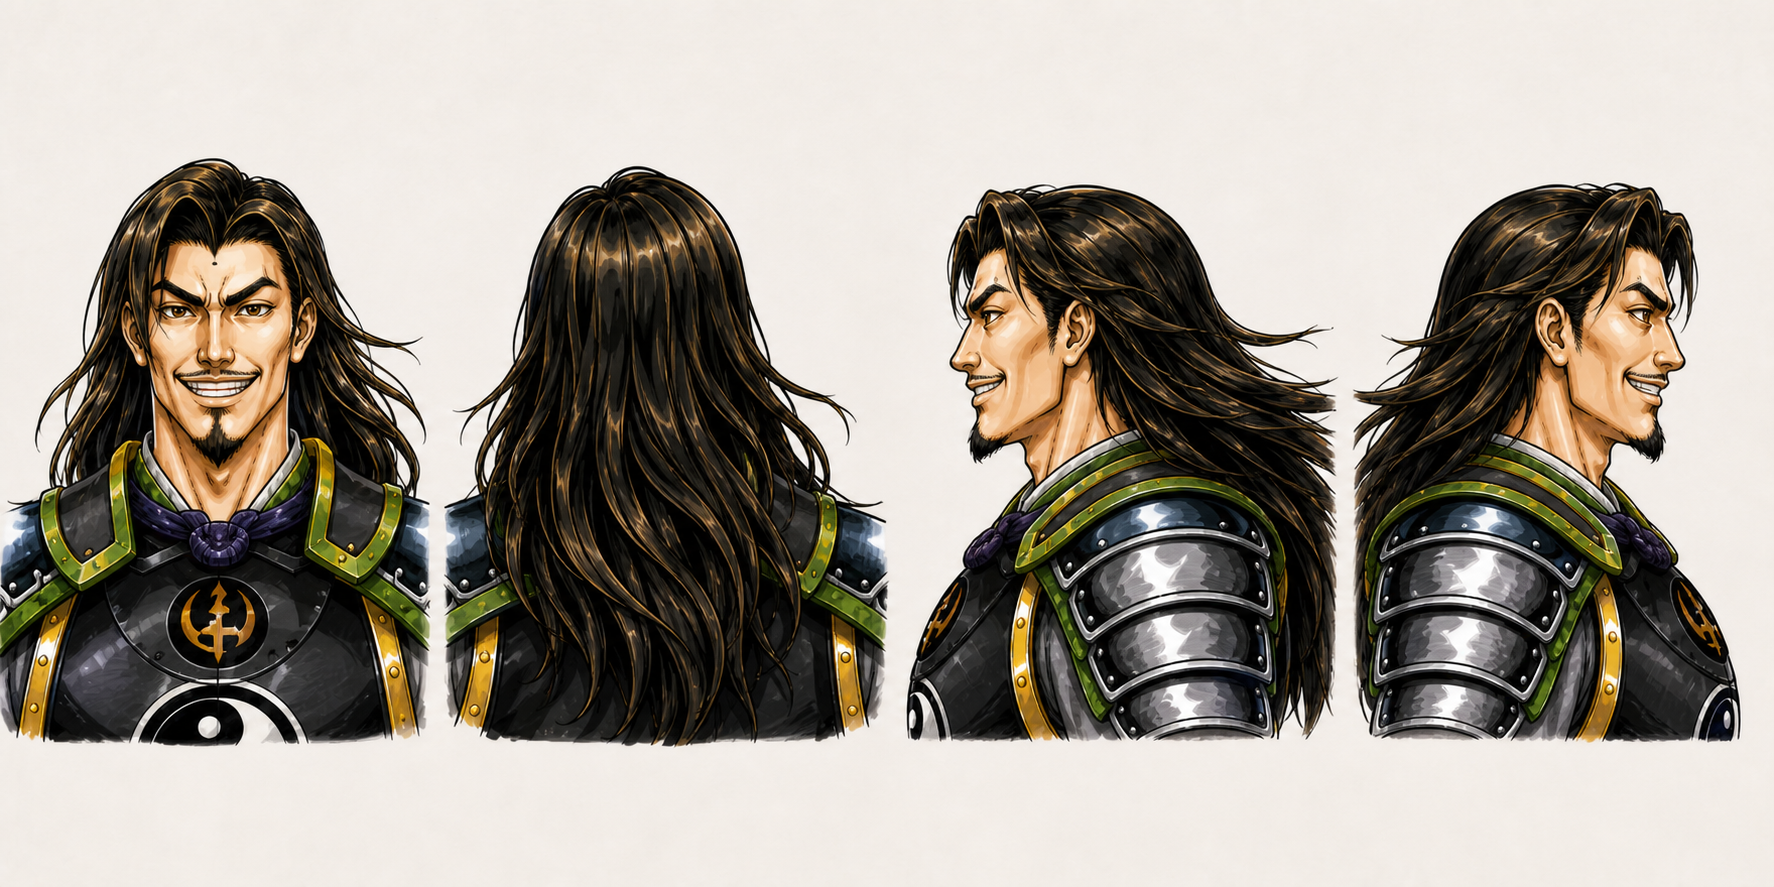
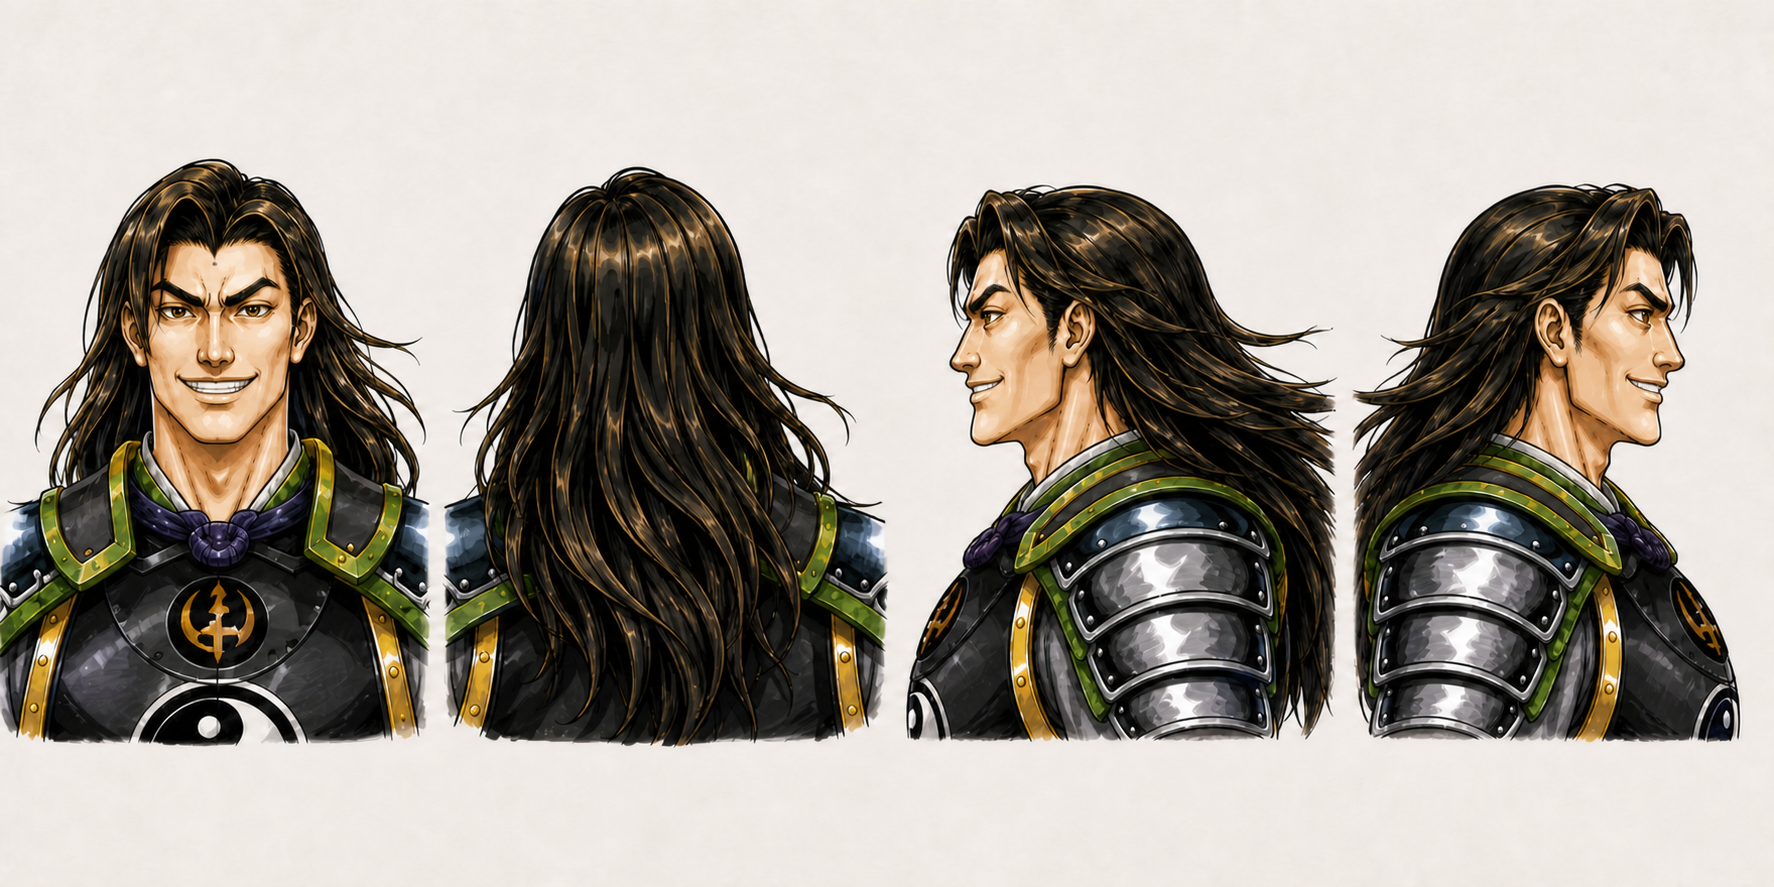
fix(061): 移除角色误加胡须
依据原图将无胡须标记为已确认，并同步人物规格与生成提示。\n\n返修中立六视图、头部四视图、原画姿态版和武器表人物比例图，同时保留返修前版本。

diff --git a/character-model-sheets/characters/061/review-notes.md b/character-model-sheets/characters/061/review-notes.md
@@ -24,7 +24,13 @@
 ## 2026-08-21 头部四视图补充
 
 - [x] 已生成 `head-sheet.png`，严格按正面、纯后脑、角色自身左侧面、角色自身右侧面排列。
-- [x] 四张保持同一身份、颅骨体积、发型／头戴、胡须、颈部尺度、裁切、光照和固定复古手绘画风。
+- [x] 四张保持同一身份、颅骨体积、发型／头戴、无胡须面部、颈部尺度、裁切、光照和固定复古手绘画风。
 - [x] 纯后脑没有出现面部；左右侧面来自角色不同解剖侧，未用表情变化代替视角变化。
 - [x] 原图未展示的后脑与连接结构继续按规格中的 `inferred`／`unknown` 克制处理，不宣称为原作事实。
 - 状态保持 `generated`，等待用户批准。
+
+## 2026-08-22 无胡须身份纠正
+
+- [x] 用户确认原图没有胡须；规格已将“无胡须、上唇与下巴光洁”改为 `confirmed`。
+- [x] 中立六视图、头部四视图、原画姿态版与武器表人物比例图中的胡须全部移除。
+- [x] 返修仅限面部胡须区域，脸型、五官、表情、长发、服装、武器、视角、构图和固定画风保持不变。
